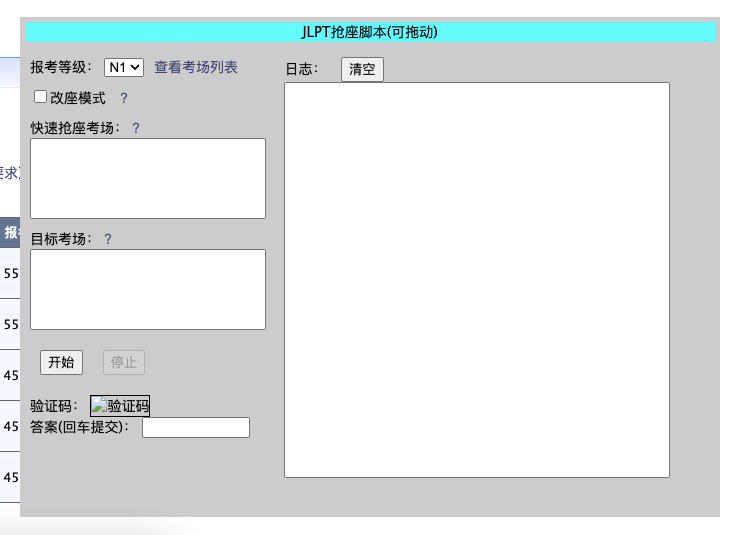
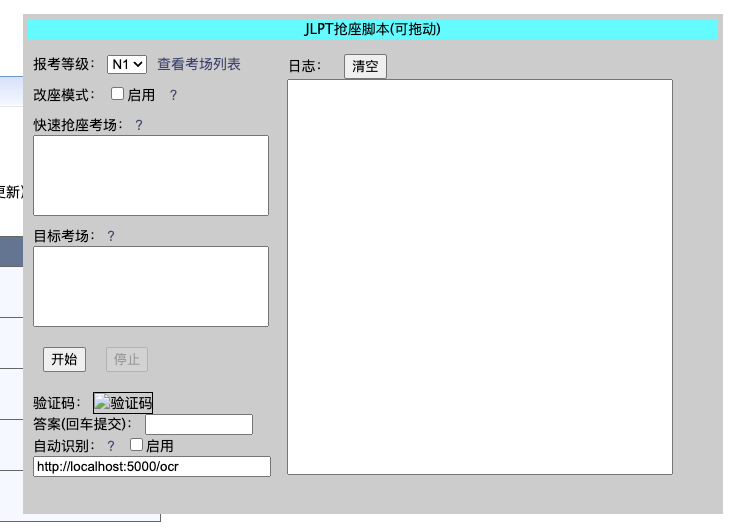
增加验证码自动识别功能

Changed region(s): [[0.0, 0.0, 0.9906, 0.9679], [0.031, 0.9679, 0.9596, 0.9981]]

diff --git a/jlpt.js b/jlpt.js
@@ -54,6 +54,27 @@ function _onTargetAddrHelp() {
     alert("填写考点代号，用英文逗号分隔，例如：\n\n1020101,1020103,1020105\n\n会通过接口去查询哪个有空座，然后按照列表的优先顺序选择有空座的考场。");
 }
 
+var ocrOn = localStorage.getItem("tool_ocrOn") == "true";
+
+function _onIsOcrOnChange(v) {
+    ocrOn = v;
+    localStorage.setItem("tool_ocrOn", v ? "true" : "false");
+}
+
+var ocrUrl = localStorage.getItem("tool_ocrUrl");
+if (!ocrUrl) {
+    ocrUrl = "http://localhost:5000/ocr";
+}
+
+function _onOcrUrlChange(v) {
+    ocrUrl = v;
+    localStorage.setItem("tool_ocrUrl", ocrUrl);
+}
+
+function _onOcrHelp() {
+    alert("1、可以用一些OCR方法自动识别验证码。\n2、参考说明搭建，填入url，勾选开关。\n3、自动识别准确率有限，网络高峰期可能导致刷新验证码较慢。");
+}
+
 //报考开始时间
 const startHour = 14
 const startMinite = 0
@@ -83,7 +104,8 @@ function _initGUI() {
                 <a href="https://jlpt.neea.cn/kdinfo.do?kdid=info" target="_blank" style="margin-left: 5px">查看考场列表</a>
             </div>
             <div style="margin: 10px">
-                <input id="tool-changeSeat" type="checkbox" onchange="_onIsChangeSeatChange(document.getElementById('tool-changeSeat').checked)">改座模式</input>
+                <label>改座模式：</label>
+                <input id="tool-changeSeat" type="checkbox" onchange="_onIsChangeSeatChange(document.getElementById('tool-changeSeat').checked)">启用</input>
                 <a onclick="_onIsChangeSeatHelp()" style="cursor: pointer; margin-left: 10px">？</a>
             </div>
             <div style="margin: 10px">
@@ -102,10 +124,13 @@ function _initGUI() {
             </div>
             <div style="margin: 10px">
                 <label>验证码：</label>
-                <img id="tool-chkImg" border="1" alt="验证码" width="80" height="25">
-                <br/>
+                <img id="tool-chkImg" border="1" alt="验证码" width="80" height="25"><br/>
                 <label>答案(回车提交)：</label>
-                <input id="tool-chkImgAns" style="width: 100px" onkeydown="_handleChkImgKeyDown(event)" ></input>
+                <input id="tool-chkImgAns" style="width: 100px" onkeydown="_handleChkImgKeyDown(event)"></input>
+                <label>自动识别：</label>
+                <a onclick="_onOcrHelp()" style="cursor: pointer">？</a>
+                <input id="tool-ocrOn" type="checkbox" onchange="_onIsOcrOnChange(document.getElementById('tool-ocrOn').checked)">启用</input><br/>
+                <input id="tool-ocrUrl" style="width: 100%" onchange="_onOcrUrlChange(document.getElementById('tool-ocrUrl').value)"></input>
             </div>
         </div>
         <div style="width: 400px; height: 100%; display: inline-block; vertical-align: top">
@@ -122,6 +147,8 @@ function _initGUI() {
         document.getElementById('tool-changeSeat').checked = isChangeSeat;
         document.getElementById('tool-fastTryAddr').value = fastTryAddr.join(",");
         document.getElementById('tool-targetAddr').value = targetAddr.join(",");
+        document.getElementById('tool-ocrOn').checked = ocrOn;
+        document.getElementById('tool-ocrUrl').value = ocrUrl;
         document.getElementById('tool-stop').disabled = true;
 
         //增加拖动的功能
@@ -206,7 +233,37 @@ function _handleChkImgKeyDown(event) {
     }
 }
 
+async function _tryOCR(url) {
+    let xhr = new XMLHttpRequest();
+    xhr.open('GET', `${ocrUrl}?url=${url}`);
+    xhr.onload = function() {
+      if (xhr.status === 200) {
+        let fin = chkImgAnsPromise;
+        chkImgAnsPromise = null;
+        if (fin) {
+            let ans = xhr.responseText;
+            if (ans.length == 4) {
+                fin(ans.toUpperCase());
+            } else {
+                _log("验证码OCR识别失败");
+                fin(null);
+            }
+        }
+      }
+    };
+    xhr.onerror = () => {
+        _log("验证码OCR请求失败");
+        let fin = chkImgAnsPromise;
+        chkImgAnsPromise = null;
+        if (fin) {
+            fin(null);
+        }
+    }
+    xhr.send();
+}
+
 async function _refreshImg() {
+    document.getElementById("tool-chkImg").src = "";
     return new Promise((fin) => {
         chkImgAnsPromise = null;
         let a = user.get("chkImgFlag");
@@ -245,11 +302,26 @@ async function _refreshImg() {
                     return
                 }
                 user.set("chkImgSrc", h.chkImgFilename);
-                document.getElementById("tool-chkImg").src = h.chkImgFilename;
-                _log("【【【请输入验证码】】】");
-                document.getElementById("tool-chkImgAns").value = "";
-                document.getElementById("tool-chkImgAns").focus();
+                
                 chkImgAnsPromise = fin;
+
+                let useOcr = ocrOn && ocrUrl && ocrUrl.length > 0;
+                let startTime = new Date().setHours(startHour, startMinite, startSecond, 0);
+                if (new Date().getTime() < startTime) {
+                    //自动识别存在失误的概率，为了增加2点刚开始时候的抢座成功率，手动输入一个正确答案
+                    _log("当前未到订座时间，请手动输入验证码确保成功率");
+                    useOcr = false;
+                }
+
+                if (useOcr) {
+                    _log("尝试自动识别验证码...");
+                    _tryOCR(h.chkImgFilename);
+                } else {
+                    document.getElementById("tool-chkImg").src = h.chkImgFilename;
+                    _log("【【【请输入验证码】】】");
+                    document.getElementById("tool-chkImgAns").value = "";
+                    document.getElementById("tool-chkImgAns").focus();
+                }
             },
             onFailure: function (g) {
                 if (timer) {
@@ -442,12 +514,15 @@ async function loop() {
     let kd = null;
     let fastTryList = fastTryAddr.slice();
     let startTime = new Date().setHours(startHour, startMinite, startSecond, 0);
+    let waitHint = false;
 
     _log("开始工作，当前报考等级：" + examLevel);
 
     while (!canExit) {
         let now = new Date().getTime();
-        while (!answer/* || (now - answerTime >= 1000 * 60 * 3)*/) {
+        while (!canExit && (!answer || (now - answerTime > 1000 * 60 * 5))) {
+            //实测5分钟的验证码是可以用的，10分钟会导致验证码已过期
+            answer = null;
             answerTime = now;
             answer = await _refreshImg();
             if (answer && answer.length == 4) {
@@ -458,7 +533,7 @@ async function loop() {
             }
         }
         
-        if (answer == "EXIT") {
+        if (!answer || answer == "EXIT") {
             canExit = true;
             break;
         }
@@ -494,6 +569,10 @@ async function loop() {
 
         //只有1个目标考场的时候，因为直接发请求，所以最好等时间到了再继续。
         if (fastTryList.length > 0 && new Date().getTime() < startTime) {
+            if (!waitHint) {
+                _log(`时间还没到，等到${startHour}:${startMinite}:${startSecond}之后自动开始...`);
+                waitHint = true;
+            }
             await _delay(200);
             continue;
         }

diff --git a/captcha.py b/captcha.py
@@ -1,0 +1,32 @@
+from flask import Flask, request
+from flask_cors import cross_origin
+import requests
+import ddddocr
+
+app = Flask(__name__)
+
+ocr_beta = ddddocr.DdddOcr(beta=True, show_ad=False)
+ocr_old = ddddocr.DdddOcr(beta=False, show_ad=False)
+
+@app.route('/ocr')
+@cross_origin()
+def get_verification_code():
+    url = request.args.get('url')
+    response = requests.get(url)
+
+    #验证码是4位大写字母，如果不是，说明识别错误
+    
+    result = ocr_beta.classification(response.content)
+    print("ocr_beta: " + result);
+    if len(result) == 4 and result.isalpha():
+        return result
+    
+    result = ocr_old.classification(response.content)
+    print("ocr_old: " + result);
+    if len(result) == 4 and result.isalpha():
+        return result
+    
+    return ""
+
+if __name__ == '__main__':
+    app.run()

diff --git a/README.md b/README.md
@@ -12,6 +12,8 @@
 
 ![截图](screenshot/ui-1.png)
 
+- 界面上的参数修改之后，会自动保存到localStorage。
+
 - 报考的等级
     - 字面意思
 
@@ -41,12 +43,14 @@
     - 如果看不清，不输入或输入小于4个字符，回车提交，都会请求新的验证码。
     - 这里刷出验证码之后，不要在原来的界面上刷新验证码。
 
+- 验证码自动识别
+    - 可参考后面的说明，搭建自动识别验证码的服务。
+    - 自动识别准确率有限，网络高峰期可能导致刷新验证码较慢。
+    - 如果是2点之前开启的脚本，第一个验证码会要求手动输入，以增加成功率，2点之后的验证码才尝试自动识别。
+
 - 日志显示
     - 显示过程中的日志。
     - 如果觉得窗口小，console控制台也会有一样的输出。
-    
-- 参数的保存
-    - 界面上的参数修改之后，会自动保存到localStorage。
 
 ## 使用方法
 
@@ -60,11 +64,15 @@
 - 调整参数，点击开始。
 
 - 刚运行或者验证码错误/过期之类的，会自动获取一个新的验证码，显示在窗口里。输入验证码答案后，程序继续运行。
-![截图](screenshot/ui-2.png)
+    ![截图](screenshot/ui-2.png)
+
+- 如果用了自动识别，则无需输入，遇到验证码失败或无法识别，会重新尝试。
+    ![截图](screenshot/ui-3.png)
+
 
 - 程序循环查询考场信息，找到符合目标条件的有座位考场，会立刻发起订座的请求。
-![截图](screenshot/ui-3.png)
-![截图](screenshot/success.jpg)
+    ![截图](screenshot/ui-4.png)
+    ![截图](screenshot/success.jpg)
 
 ## 注意事项
 
@@ -79,3 +87,11 @@
 - 建议提前演练一下，一方面脚本可能有问题，或者网站更新导致功能不可用。
 
 - 如果遇到订座请求（book.do）报400，可能需要注销一下重新登录才能好。
+
+## 验证码自动识别
+
+- 准备python3环境
+
+- 安装依赖：`pip install flask flask_cors requests ddddocr`
+
+- 运行：`python3 captcha.py`
